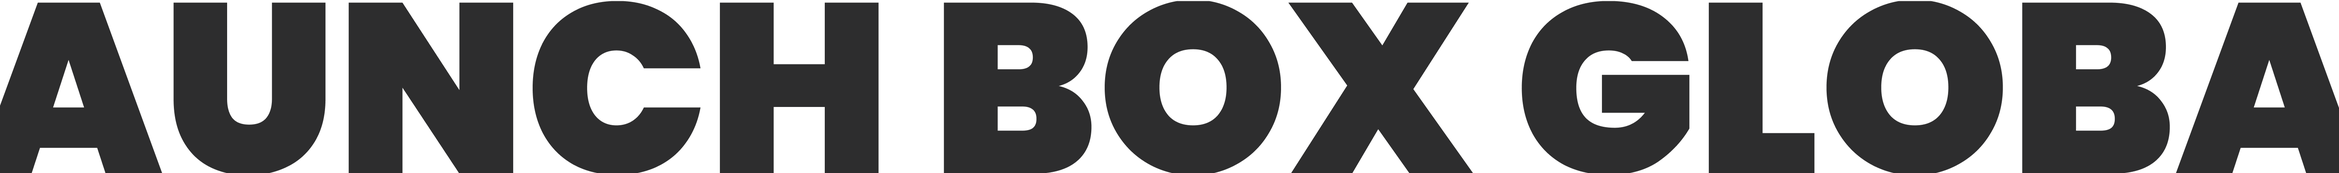
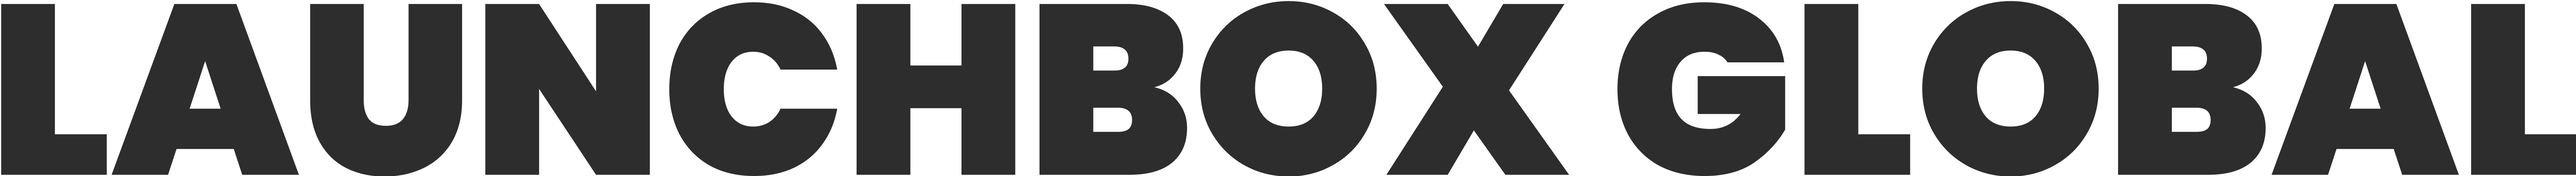
changed footer heading and image

diff --git a/components/Global/HomeFooter.jsx b/components/Global/HomeFooter.jsx
@@ -177,16 +177,13 @@ const HomeFooter = () => {
       </section>
 
       <section className="w-full flex flex-col items-center gap-5 justify-center mt-10 lg:mt-16 relative">
-        {/* <Image
+        <Image
           src={"/footer-lb-image.png"}
           alt="footer-lb-image"
           width={1919}
           height={142}
-          className="w-full absolute z-0"
-        /> */}
-        <p className="absolute z-0 inset-x-0 w-full text-center lg:text-[10rem] -left-1 opacity-10 bottom-[-80%] flex whitespace-nowrap overflow-hidden uppercase font-extrabold">
-          launchbox global
-        </p>
+          className="w-full absolute z-0 -bottom-2"
+        />
         <p className="text-sm md:text-base font-semibold opacity-70 z-10">
           © 2025 LaunchBox Global. All Rights Reserved.
         </p>

diff --git a/components/Global/FooterLocations.jsx b/components/Global/FooterLocations.jsx
@@ -10,7 +10,7 @@ const FooterLocations = () => {
   return (
     <div className="flex flex-col items-start gap-4">
       <h3 className="text-sm lg:text-[18px] font-bold uppercase">
-        Areas We Serve
+        Serving Businesses Worldwide
       </h3>
       <div className="">
         <div className="h-[48px] bg-[#2D2D2E] rounded-full p-1 flex items-start gap-0 lg:gap-1 flex-wrap">
@@ -48,7 +48,7 @@ const FooterLocations = () => {
               location === "Canada" && "bg-[#F40E00] text-white"
             }`}
           >
-            CAN
+            CA
           </button>
           <button
             type="button"
